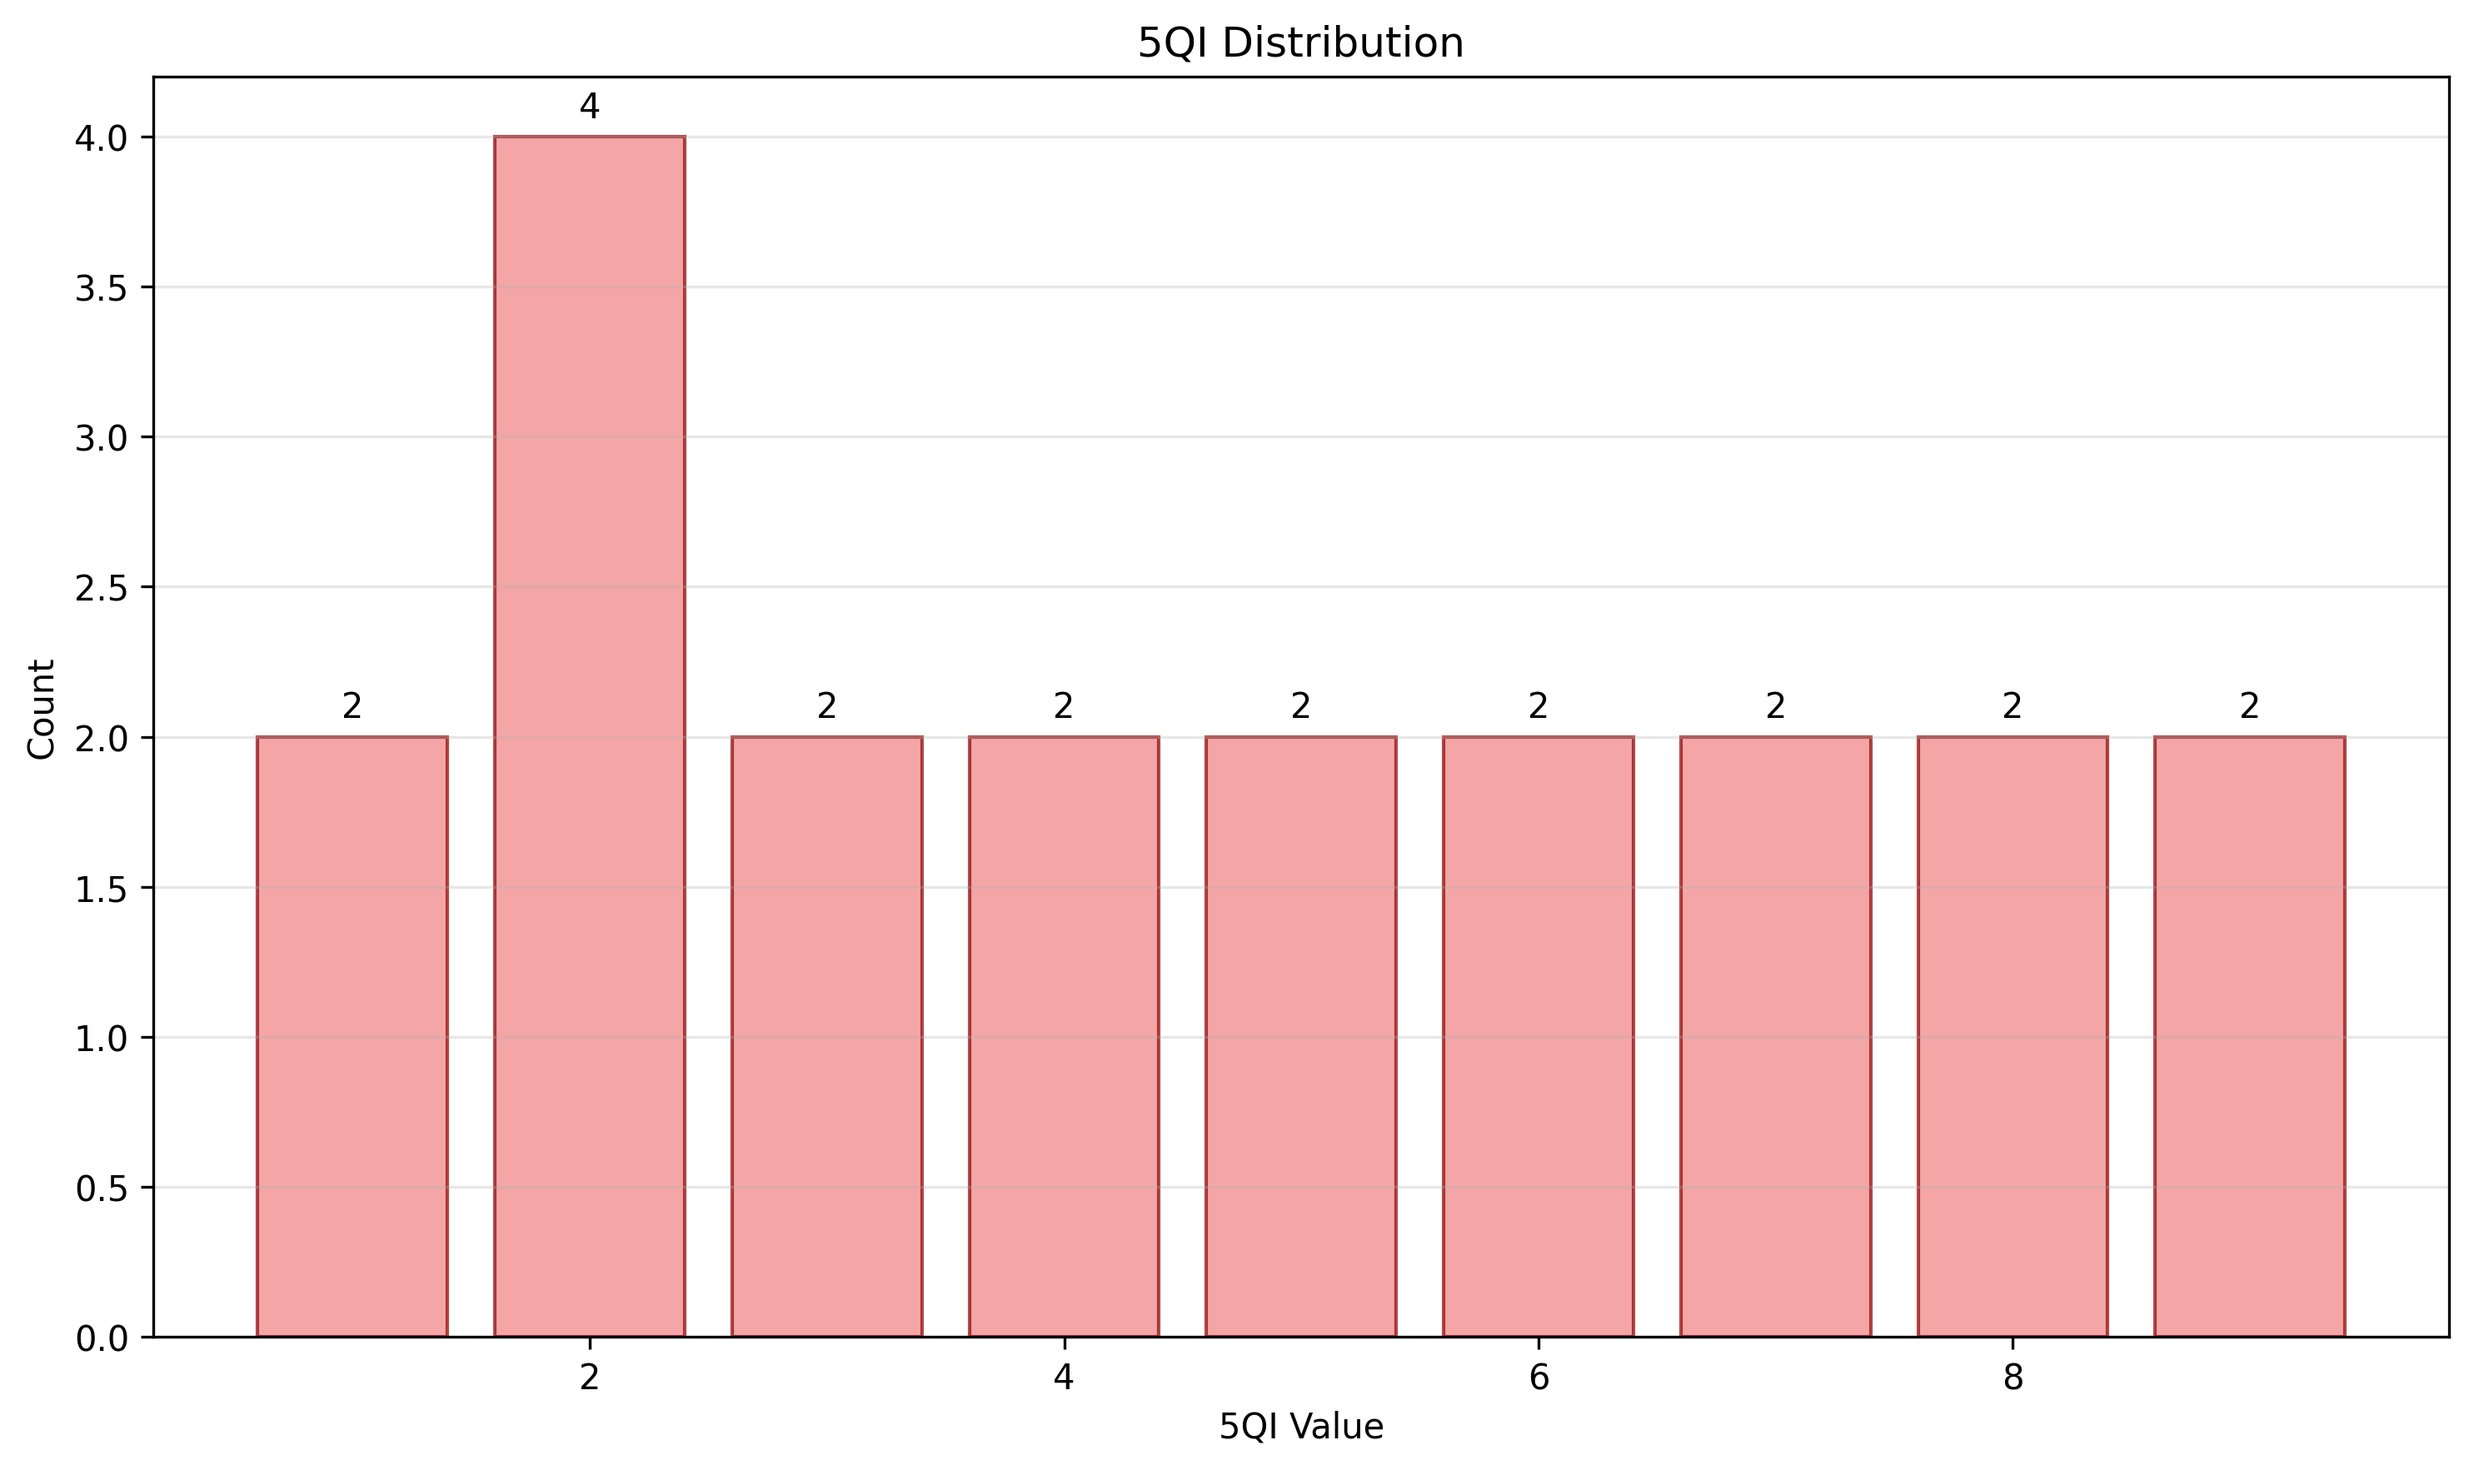
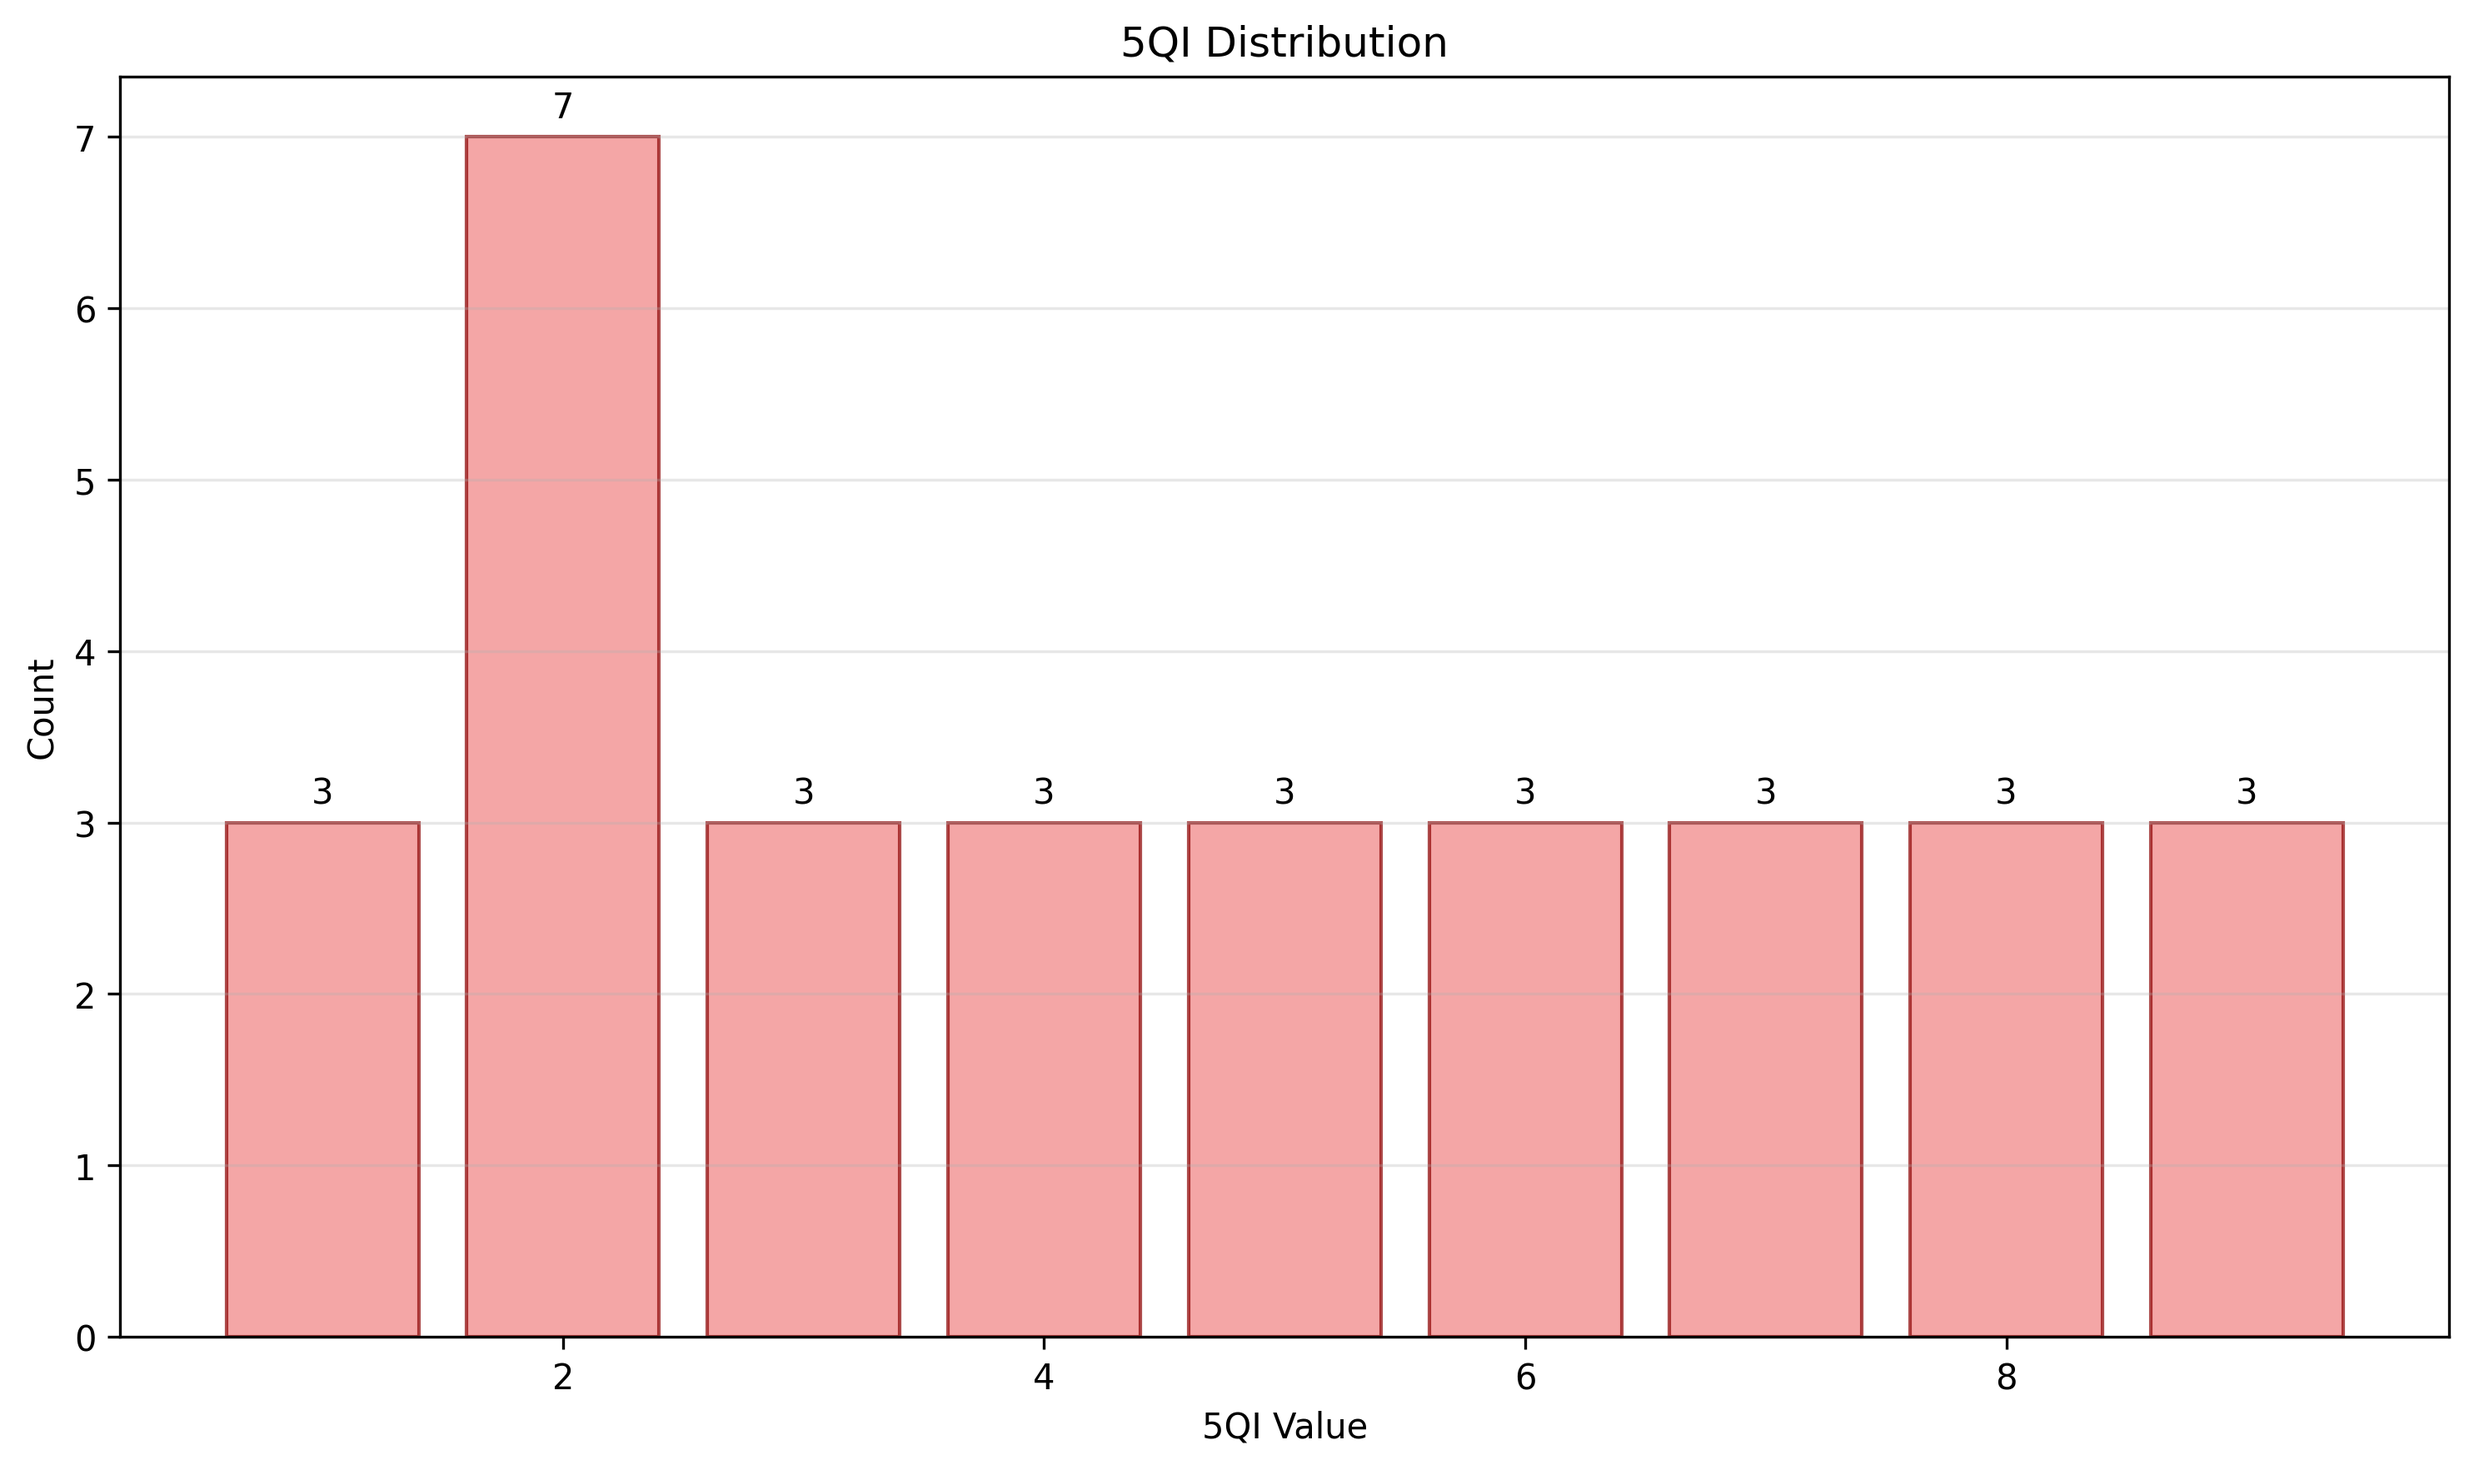
Initial implementation plan for CI workflow and testing infrastructure

diff --git a/samples/output/REPORT.md b/samples/output/REPORT.md
@@ -1,7 +1,7 @@
 # QCI/5QI Analysis Report
 
-**Generated:** 2025-09-01 15:06:58  
-**Dataset:** 2 files, 20 total rows  
+**Generated:** 2025-09-01 15:13:18  
+**Dataset:** 6 files, 41 total rows  
 **Time Span:** 2024-07-31 14:42:13.123000+00:00 to 2024-07-31 14:42:22.012000+00:00  
 **Analysis Window:** 5min
 
@@ -10,9 +10,13 @@
 ### Files Processed
 - **minimal.csv**: 10 rows, has QCI, has 5QI, has timestamps
 - **minimal.csv**: 10 rows, has QCI, has 5QI, has timestamps
+- **qci_distribution.csv**: 9 rows, has QCI
+- **anomalies_by_bearer.csv**: 1 rows
+- **5qi_distribution.csv**: 9 rows, has 5QI
+- **mismatches.csv**: 2 rows, has QCI, has 5QI, has timestamps
 
-**Total Rows:** 20  
-**Available Columns:** timestamp, qci, 5qi, imsi, bearer_id, throughput, latency, packet_loss, _source_file, time_window
+**Total Rows:** 41  
+**Available Columns:** timestamp, qci, 5qi, imsi, bearer_id, throughput, latency, packet_loss, _source_file, count, percentage, time_window, type, unique_5qis, row_count, row_index, expected_5qi
 
 ## Methods
 
@@ -27,17 +31,17 @@
 
 | QCI | Count | Percentage |
 |-----|-------|------------|
-| 1 | 4 | 20.0% |
-| 2 | 2 | 10.0% |
-| 3 | 2 | 10.0% |
-| 4 | 2 | 10.0% |
-| 5 | 2 | 10.0% |
-| 6 | 2 | 10.0% |
-| 7 | 2 | 10.0% |
-| 8 | 2 | 10.0% |
-| 9 | 2 | 10.0% |
+| 1.0 | 7 | 22.58% |
+| 2.0 | 3 | 9.68% |
+| 3.0 | 3 | 9.68% |
+| 4.0 | 3 | 9.68% |
+| 5.0 | 3 | 9.68% |
+| 6.0 | 3 | 9.68% |
+| 7.0 | 3 | 9.68% |
+| 8.0 | 3 | 9.68% |
+| 9.0 | 3 | 9.68% |
 
-**Total QCI Entries:** 20
+**Total QCI Entries:** 31
 
 ![QCI Distribution](images/qci_distribution.png)
 
@@ -45,30 +49,32 @@
 
 | 5QI | Count | Percentage |
 |-----|-------|------------|
-| 1 | 2 | 10.0% |
-| 2 | 4 | 20.0% |
-| 3 | 2 | 10.0% |
-| 4 | 2 | 10.0% |
-| 5 | 2 | 10.0% |
-| 6 | 2 | 10.0% |
-| 7 | 2 | 10.0% |
-| 8 | 2 | 10.0% |
-| 9 | 2 | 10.0% |
+| 1.0 | 3 | 9.68% |
+| 2.0 | 7 | 22.58% |
+| 3.0 | 3 | 9.68% |
+| 4.0 | 3 | 9.68% |
+| 5.0 | 3 | 9.68% |
+| 6.0 | 3 | 9.68% |
+| 7.0 | 3 | 9.68% |
+| 8.0 | 3 | 9.68% |
+| 9.0 | 3 | 9.68% |
 
-**Total 5QI Entries:** 20
+**Total 5QI Entries:** 31
 
 ![5QI Distribution](images/5qi_distribution.png)
 
 ### QCI/5QI Mapping Analysis
 
-**Mismatch Rate:** 10.0% (2/20 comparisons)
+**Mismatch Rate:** 18.18% (4/22 comparisons)
 
 **Top Mismatches:**
 
 | QCI | 5QI | Expected 5QI | IMSI | Bearer ID |
 |-----|-----|---------------|------|----------|
-| 1 | 2 | [1] | 123456789012345 | ebi_1 |
-| 1 | 2 | [1] | 123456789012345 | ebi_1 |
+| 1 | 2 | [1] | 123456789012345.0 | ebi_1 |
+| 1 | 2 | [1] | 123456789012345.0 | ebi_1 |
+| 1 | 2 | [1] | 123456789012345.0 | ebi_1 |
+| 1 | 2 | [1] | 123456789012345.0 | ebi_1 |
 
 *See artifacts/mismatches.csv for complete list*
 
@@ -86,47 +92,47 @@
 
 - **QCI 1:**
   - throughput: mean=11.3, median=11.3, range=[10.5, 12.1] (n=4)
-  - latency: mean=52.5, median=52.5, range=[50, 55] (n=4)
+  - latency: mean=52.5, median=52.5, range=[50.0, 55.0] (n=4)
   - packet_loss: mean=0.01, median=0.01, range=[0.01, 0.01] (n=4)
 
 - **QCI 2:**
   - throughput: mean=25.3, median=25.3, range=[25.3, 25.3] (n=2)
-  - latency: mean=80.0, median=80.0, range=[80, 80] (n=2)
+  - latency: mean=80.0, median=80.0, range=[80.0, 80.0] (n=2)
   - packet_loss: mean=0.02, median=0.02, range=[0.02, 0.02] (n=2)
 
 - **QCI 5:**
   - throughput: mean=5.1, median=5.1, range=[5.1, 5.1] (n=2)
-  - latency: mean=30.0, median=30.0, range=[30, 30] (n=2)
+  - latency: mean=30.0, median=30.0, range=[30.0, 30.0] (n=2)
   - packet_loss: mean=0.001, median=0.001, range=[0.001, 0.001] (n=2)
 
 - **QCI 7:**
   - throughput: mean=15.2, median=15.2, range=[15.2, 15.2] (n=2)
-  - latency: mean=60.0, median=60.0, range=[60, 60] (n=2)
+  - latency: mean=60.0, median=60.0, range=[60.0, 60.0] (n=2)
   - packet_loss: mean=0.015, median=0.015, range=[0.015, 0.015] (n=2)
 
 - **QCI 9:**
   - throughput: mean=100.7, median=100.7, range=[100.7, 100.7] (n=2)
-  - latency: mean=120.0, median=120.0, range=[120, 120] (n=2)
+  - latency: mean=120.0, median=120.0, range=[120.0, 120.0] (n=2)
   - packet_loss: mean=0.03, median=0.03, range=[0.03, 0.03] (n=2)
 
 - **QCI 8:**
   - throughput: mean=75.4, median=75.4, range=[75.4, 75.4] (n=2)
-  - latency: mean=90.0, median=90.0, range=[90, 90] (n=2)
+  - latency: mean=90.0, median=90.0, range=[90.0, 90.0] (n=2)
   - packet_loss: mean=0.025, median=0.025, range=[0.025, 0.025] (n=2)
 
 - **QCI 3:**
   - throughput: mean=8.9, median=8.9, range=[8.9, 8.9] (n=2)
-  - latency: mean=40.0, median=40.0, range=[40, 40] (n=2)
+  - latency: mean=40.0, median=40.0, range=[40.0, 40.0] (n=2)
   - packet_loss: mean=0.005, median=0.005, range=[0.005, 0.005] (n=2)
 
 - **QCI 6:**
   - throughput: mean=45.6, median=45.6, range=[45.6, 45.6] (n=2)
-  - latency: mean=100.0, median=100.0, range=[100, 100] (n=2)
+  - latency: mean=100.0, median=100.0, range=[100.0, 100.0] (n=2)
   - packet_loss: mean=0.02, median=0.02, range=[0.02, 0.02] (n=2)
 
 - **QCI 4:**
   - throughput: mean=30.2, median=30.2, range=[30.2, 30.2] (n=2)
-  - latency: mean=70.0, median=70.0, range=[70, 70] (n=2)
+  - latency: mean=70.0, median=70.0, range=[70.0, 70.0] (n=2)
   - packet_loss: mean=0.018, median=0.018, range=[0.018, 0.018] (n=2)
 
 ## Anomalies and Recommendations
